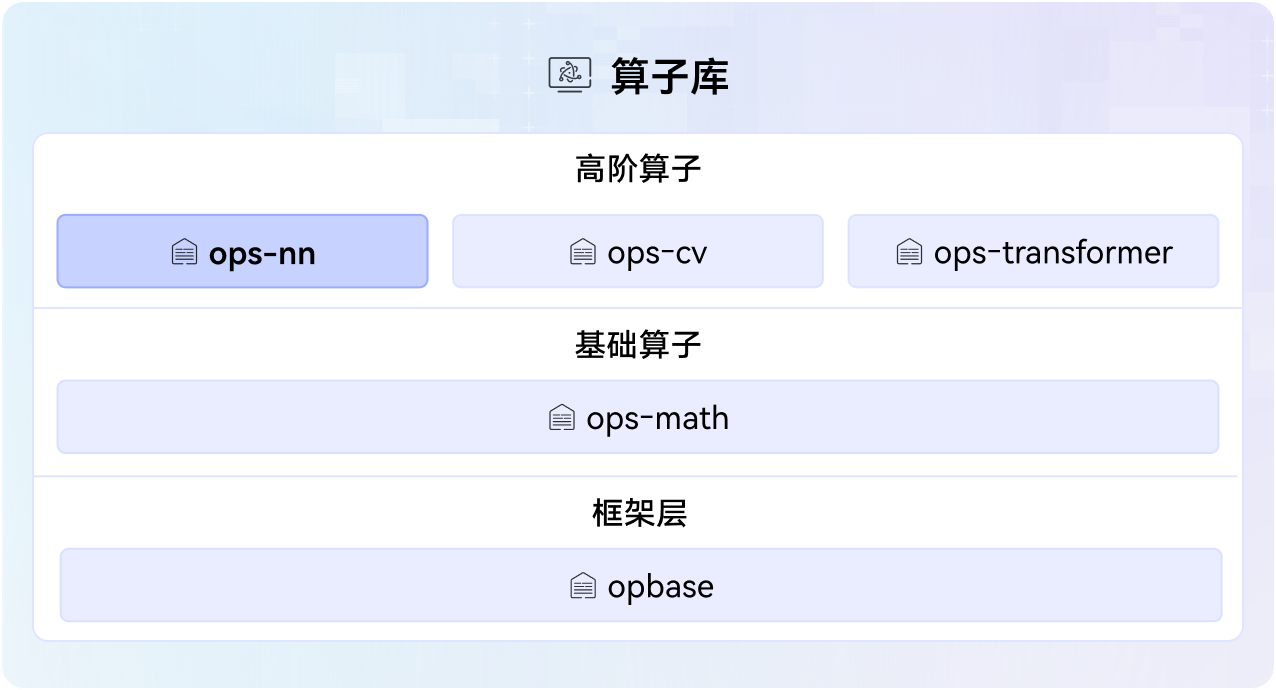
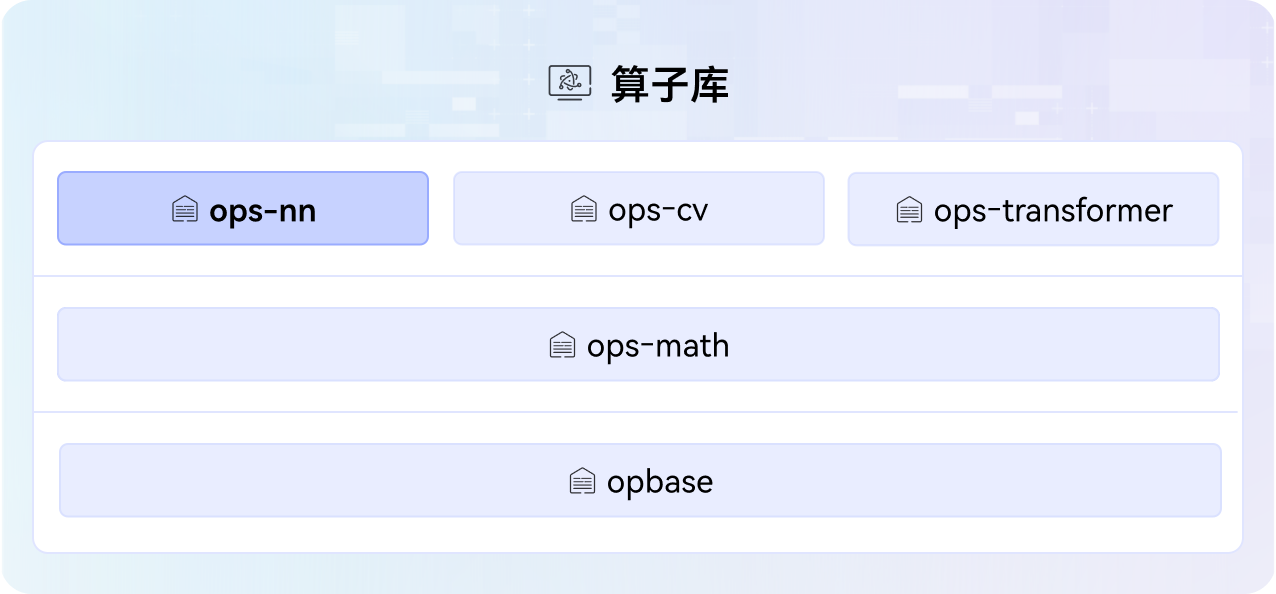
update doc
# message auto-generated for no-merge-commit merge:
!96 merge master into master

update doc

Created-by: liuyufan0725
Commit-by: liuyufan0725
Merged-by: turing_project1
Description: ## 描述
<!--在这里详细描述你的改动，包括改动的原因和所采取的方法。-->
公共文档更新。
## 关联的Issue
<!-- 如果这个PR是为了解决特定的Issue，请在这里提供Issue链接。例如：关联Issue #123-->
<!-- 如果这个PR是为了解决特定的问题单，请在这里描述问题单单号。-->

## 测试
<!--描述进行了哪些测试来验证你的改动。包括但不限于二级冒烟、算子泛化等。-->

## 文档更新
<!--如果这个PR包含文档的更新，请在这里指出。例如：更新了README.md文件。-->

## 类型标签
<!--  [x] 表示选中 -->
- [ ] Bug修复
- [ ] 新特性
- [ ] 性能优化
- [x] 文档更新
- [ ] 其他，请描述：

See merge request: cann/ops-nn!96

diff --git a/docs/context/op_list.md b/docs/context/op_list.md
@@ -1,7 +1,7 @@
 # 算子列表
 
 > 说明：
-> - **算子目录**：目录名为算子名小写下划线形式，每个目录承载该算子所有交付件，包括代码实现、examples、文档等，目录介绍参见[目录结构](../../README.md#目录结构)。
+> - **算子目录**：目录名为算子名小写下划线形式，每个目录承载该算子所有交付件，包括代码实现、examples、文档等，目录介绍参见[项目目录](dir_structure.md)。
 > - **算子执行位置**：大部分算子运行在AI Core上，少部分算子运行在AI CPU上。默认情况下，项目中提到的算子一般指AI Core算子。
 > - 关于AI Core和AI CPU详细介绍请参见[《Ascend C算子开发》](https://hiascend.com/document/redirect/CannCommunityOpdevAscendC)中“概念原理和术语 > 硬件架构与数据处理原理”。
 
@@ -166,100 +166,100 @@
 |	vfusion	|	[multi_scale_deformable_attention_grad](../../vfusion/multi_scale_deformable_attention_grad/README.md)	|		AI Core	|	multi_scale_deformable_attn_function的反向传播。	|
 |	vfusion	|	[scaled_masked_softmax_grad_v2](../../vfusion/scaled_masked_softmax_grad_v2/README.md)	|		AI Core	|	scaled_masked_softmax_v2的反向传播，并对结果进行缩放以及掩码。	|
 |	vfusion	|	[scaled_masked_softmax_v2](../../vfusion/scaled_masked_softmax_v2/README.md)	|		AI Core	|	将输入的数据x先进行scale缩放和mask，然后执行softmax的输出。	|
-|	activation	|	[celu_v2](../../activation/celu_v2/README.md)	|		AI Core	|	该算子暂无AscendC代码实现，欢迎各位开发者补充贡献，贡献方式可以参考[贡献指南](../../CONTRIBUTING.md)。	|
-|	activation	|	[elu](../../activation/elu/README.md)	|		AI Core	|	该算子暂无AscendC代码实现，欢迎各位开发者补充贡献，贡献方式可以参考[贡献指南](../../CONTRIBUTING.md)。	|
-|	activation	|	[elu_grad_v2](../../activation/elu_grad_v2/README.md)	|		AI Core	|	该算子暂无AscendC代码实现，欢迎各位开发者补充贡献，贡献方式可以参考[贡献指南](../../CONTRIBUTING.md)。	|
-|	activation	|	[erfinv](../../activation/erfinv/README.md)	|		AI Core	|	该算子暂无AscendC代码实现，欢迎各位开发者补充贡献，贡献方式可以参考[贡献指南](../../CONTRIBUTING.md)。	|
-|	activation	|	[fast_gelu](../../activation/fast_gelu/README.md)	|		AI Core	|	该算子暂无AscendC代码实现，欢迎各位开发者补充贡献，贡献方式可以参考[贡献指南](../../CONTRIBUTING.md)。	|
-|	activation	|	[fast_gelu_grad](../../activation/fast_gelu_grad/README.md)	|		AI Core	|	该算子暂无AscendC代码实现，欢迎各位开发者补充贡献，贡献方式可以参考[贡献指南](../../CONTRIBUTING.md)。	|
-|	activation	|	[gelu](../../activation/gelu/README.md)	|		AI Core	|	该算子暂无AscendC代码实现，欢迎各位开发者补充贡献，贡献方式可以参考[贡献指南](../../CONTRIBUTING.md)。	|
-|	activation	|	[gelu_grad](../../activation/gelu_grad/README.md)	|		AI Core	|	该算子暂无AscendC代码实现，欢迎各位开发者补充贡献，贡献方式可以参考[贡献指南](../../CONTRIBUTING.md)。	|
-|	activation	|	[gelu_grad_v2](../../activation/gelu_grad_v2/README.md)	|		AI Core	|	该算子暂无AscendC代码实现，欢迎各位开发者补充贡献，贡献方式可以参考[贡献指南](../../CONTRIBUTING.md)。	|
-|	activation	|	[gelu_v2](../../activation/gelu_v2/README.md)	|		AI Core	|	该算子暂无AscendC代码实现，欢迎各位开发者补充贡献，贡献方式可以参考[贡献指南](../../CONTRIBUTING.md)。	|
-|	activation	|	[hardtanh_grad](../../activation/hardtanh_grad/README.md)	|		AI Core	|	该算子暂无AscendC代码实现，欢迎各位开发者补充贡献，贡献方式可以参考[贡献指南](../../CONTRIBUTING.md)。	|
-|	activation	|	[hard_shrink](../../activation/hard_shrink/README.md)	|		AI Core	|	该算子暂无AscendC代码实现，欢迎各位开发者补充贡献，贡献方式可以参考[贡献指南](../../CONTRIBUTING.md)。	|
-|	activation	|	[hard_shrink_grad](../../activation/hard_shrink_grad/README.md)	|		AI Core	|	该算子暂无AscendC代码实现，欢迎各位开发者补充贡献，贡献方式可以参考[贡献指南](../../CONTRIBUTING.md)。	|
-|	activation	|	[hard_sigmoid](../../activation/hard_sigmoid/README.md)	|		AI Core	|	该算子暂无AscendC代码实现，欢迎各位开发者补充贡献，贡献方式可以参考[贡献指南](../../CONTRIBUTING.md)。	|
-|	activation	|	[hard_sigmoid_grad](../../activation/hard_sigmoid_grad/README.md)	|		AI Core	|	该算子暂无AscendC代码实现，欢迎各位开发者补充贡献，贡献方式可以参考[贡献指南](../../CONTRIBUTING.md)。	|
-|	activation	|	[hard_swish](../../activation/hard_swish/README.md)	|		AI Core	|	该算子暂无AscendC代码实现，欢迎各位开发者补充贡献，贡献方式可以参考[贡献指南](../../CONTRIBUTING.md)。	|
-|	activation	|	[hard_swish_grad](../../activation/hard_swish_grad/README.md)	|		AI Core	|	该算子暂无AscendC代码实现，欢迎各位开发者补充贡献，贡献方式可以参考[贡献指南](../../CONTRIBUTING.md)。	|
-|	activation	|	[leaky_relu](../../activation/leaky_relu/README.md)	|		AI Core	|	该算子暂无AscendC代码实现，欢迎各位开发者补充贡献，贡献方式可以参考[贡献指南](../../CONTRIBUTING.md)。	|
-|	activation	|	[leaky_relu_grad](../../activation/leaky_relu_grad/README.md)	|		AI Core	|	该算子暂无AscendC代码实现，欢迎各位开发者补充贡献，贡献方式可以参考[贡献指南](../../CONTRIBUTING.md)。	|
-|	activation	|	[logsigmoid](../../activation/logsigmoid/README.md)	|		AI Core	|	该算子暂无AscendC代码实现，欢迎各位开发者补充贡献，贡献方式可以参考[贡献指南](../../CONTRIBUTING.md)。	|
-|	activation	|	[logsigmoid_grad](../../activation/logsigmoid_grad/README.md)	|		AI Core	|	该算子暂无AscendC代码实现，欢迎各位开发者补充贡献，贡献方式可以参考[贡献指南](../../CONTRIBUTING.md)。	|
-|	activation	|	[logsoftmax_grad](../../activation/logsoftmax_grad/README.md)	|		AI Core	|	该算子暂无AscendC代码实现，欢迎各位开发者补充贡献，贡献方式可以参考[贡献指南](../../CONTRIBUTING.md)。	|
-|	activation	|	[logsoftmax_v2](../../activation/logsoftmax_v2/README.md)	|		AI Core	|	该算子暂无AscendC代码实现，欢迎各位开发者补充贡献，贡献方式可以参考[贡献指南](../../CONTRIBUTING.md)。	|
-|	activation	|	[mish](../../activation/mish/README.md)	|		AI Core	|	该算子暂无AscendC代码实现，欢迎各位开发者补充贡献，贡献方式可以参考[贡献指南](../../CONTRIBUTING.md)。	|
-|	activation	|	[mish_grad](../../activation/mish_grad/README.md)	|		AI Core	|	该算子暂无AscendC代码实现，欢迎各位开发者补充贡献，贡献方式可以参考[贡献指南](../../CONTRIBUTING.md)。	|
-|	activation	|	[prelu](../../activation/prelu/README.md)	|		AI Core	|	该算子暂无AscendC代码实现，欢迎各位开发者补充贡献，贡献方式可以参考[贡献指南](../../CONTRIBUTING.md)。	|
-|	activation	|	[prelu_grad_reduce](../../activation/prelu_grad_reduce/README.md)	|		AI Core	|	该算子暂无AscendC代码实现，欢迎各位开发者补充贡献，贡献方式可以参考[贡献指南](../../CONTRIBUTING.md)。	|
-|	activation	|	[prelu_grad_update](../../activation/prelu_grad_update/README.md)	|		AI Core	|	该算子暂无AscendC代码实现，欢迎各位开发者补充贡献，贡献方式可以参考[贡献指南](../../CONTRIBUTING.md)。	|
-|	activation	|	[relu](../../activation/relu/README.md)	|		AI Core	|	该算子暂无AscendC代码实现，欢迎各位开发者补充贡献，贡献方式可以参考[贡献指南](../../CONTRIBUTING.md)。	|
-|	activation	|	[relu_grad](../../activation/relu_grad/README.md)	|		AI Core	|	该算子暂无AscendC代码实现，欢迎各位开发者补充贡献，贡献方式可以参考[贡献指南](../../CONTRIBUTING.md)。	|
-|	activation	|	[selu](../../activation/selu/README.md)	|		AI Core	|	该算子暂无AscendC代码实现，欢迎各位开发者补充贡献，贡献方式可以参考[贡献指南](../../CONTRIBUTING.md)。	|
-|	activation	|	[selu_grad](../../activation/selu_grad/README.md)	|		AI Core	|	该算子暂无AscendC代码实现，欢迎各位开发者补充贡献，贡献方式可以参考[贡献指南](../../CONTRIBUTING.md)。	|
-|	activation	|	[shrink](../../activation/shrink/README.md)	|		AI Core	|	该算子暂无AscendC代码实现，欢迎各位开发者补充贡献，贡献方式可以参考[贡献指南](../../CONTRIBUTING.md)。	|
-|	activation	|	[sigmoid](../../activation/sigmoid/README.md)	|		AI Core	|	该算子暂无AscendC代码实现，欢迎各位开发者补充贡献，贡献方式可以参考[贡献指南](../../CONTRIBUTING.md)。	|
-|	activation	|	[sigmoid_grad](../../activation/sigmoid_grad/README.md)	|		AI Core	|	该算子暂无AscendC代码实现，欢迎各位开发者补充贡献，贡献方式可以参考[贡献指南](../../CONTRIBUTING.md)。	|
-|	activation	|	[silu_grad](../../activation/silu_grad/README.md)	|		AI Core	|	该算子暂无AscendC代码实现，欢迎各位开发者补充贡献，贡献方式可以参考[贡献指南](../../CONTRIBUTING.md)。	|
-|	activation	|	[softmax_grad](../../activation/softmax_grad/README.md)	|		AI Core	|	该算子暂无AscendC代码实现，欢迎各位开发者补充贡献，贡献方式可以参考[贡献指南](../../CONTRIBUTING.md)。	|
-|	activation	|	[softmax_v2](../../activation/softmax_v2/README.md)	|		AI Core	|	该算子暂无AscendC代码实现，欢迎各位开发者补充贡献，贡献方式可以参考[贡献指南](../../CONTRIBUTING.md)。	|
-|	activation	|	[softplus_v2](../../activation/softplus_v2/README.md)	|		AI Core	|	该算子暂无AscendC代码实现，欢迎各位开发者补充贡献，贡献方式可以参考[贡献指南](../../CONTRIBUTING.md)。	|
-|	activation	|	[softplus_v2_grad](../../activation/softplus_v2_grad/README.md)	|		AI Core	|	该算子暂无AscendC代码实现，欢迎各位开发者补充贡献，贡献方式可以参考[贡献指南](../../CONTRIBUTING.md)。	|
-|	activation	|	[softshrink](../../activation/softshrink/README.md)	|		AI Core	|	该算子暂无AscendC代码实现，欢迎各位开发者补充贡献，贡献方式可以参考[贡献指南](../../CONTRIBUTING.md)。	|
-|	activation	|	[softshrink_grad](../../activation/softshrink_grad/README.md)	|		AI Core	|	该算子暂无AscendC代码实现，欢迎各位开发者补充贡献，贡献方式可以参考[贡献指南](../../CONTRIBUTING.md)。	|
-|	activation	|	[swish](../../activation/swish/README.md)	|		AI Core	|	该算子暂无AscendC代码实现，欢迎各位开发者补充贡献，贡献方式可以参考[贡献指南](../../CONTRIBUTING.md)。	|
-|	activation	|	[swish_grad](../../activation/swish_grad/README.md)	|		AI Core	|	该算子暂无AscendC代码实现，欢迎各位开发者补充贡献，贡献方式可以参考[贡献指南](../../CONTRIBUTING.md)。	|
-|	activation	|	[threshold](../../activation/threshold/README.md)	|		AI Core	|	该算子暂无AscendC代码实现，欢迎各位开发者补充贡献，贡献方式可以参考[贡献指南](../../CONTRIBUTING.md)。	|
-|	activation	|	[threshold_grad_v2_d](../../activation/threshold_grad_v2_d/README.md)	|		AI Core	|	该算子暂无AscendC代码实现，欢迎各位开发者补充贡献，贡献方式可以参考[贡献指南](../../CONTRIBUTING.md)。	|
-|	control	|	[identity](../../control/identity/README.md)	|		AI Core	|	该算子暂无AscendC代码实现，欢迎各位开发者补充贡献，贡献方式可以参考[贡献指南](../../CONTRIBUTING.md)。	|
-|	control	|	[identity_n](../../control/identity_n/README.md)	|		AI Core	|	该算子暂无AscendC代码实现，欢迎各位开发者补充贡献，贡献方式可以参考[贡献指南](../../CONTRIBUTING.md)。	|
-|	control	|	[rank](../../control/rank/README.md)	|		AI Core	|	该算子暂无AscendC代码实现，欢迎各位开发者补充贡献，贡献方式可以参考[贡献指南](../../CONTRIBUTING.md)。	|
-|	control	|	[shape](../../control/shape/README.md)	|		AI Core	|	该算子暂无AscendC代码实现，欢迎各位开发者补充贡献，贡献方式可以参考[贡献指南](../../CONTRIBUTING.md)。	|
-|	control	|	[shape_n](../../control/shape_n/README.md)	|		AI Core	|	该算子暂无AscendC代码实现，欢迎各位开发者补充贡献，贡献方式可以参考[贡献指南](../../CONTRIBUTING.md)。	|
-|	index	|	[gather_elements](../../index/gather_elements/README.md)	|		AI Core	|	该算子暂无AscendC代码实现，欢迎各位开发者补充贡献，贡献方式可以参考[贡献指南](../../CONTRIBUTING.md)。	|
-|	index	|	[gather_nd](../../index/gather_nd/README.md)	|		AI Core	|	该算子暂无AscendC代码实现，欢迎各位开发者补充贡献，贡献方式可以参考[贡献指南](../../CONTRIBUTING.md)。	|
-|	index	|	[gather_v2](../../index/gather_v2/README.md)	|		AI Core	|	该算子暂无AscendC代码实现，欢迎各位开发者补充贡献，贡献方式可以参考[贡献指南](../../CONTRIBUTING.md)。	|
-|	index	|	[index](../../index/index/README.md)	|		AI Core	|	该算子暂无AscendC代码实现，欢迎各位开发者补充贡献，贡献方式可以参考[贡献指南](../../CONTRIBUTING.md)。	|
-|	index	|	[index_fill_d](../../index/index_fill_d/README.md)	|		AI Core	|	该算子暂无AscendC代码实现，欢迎各位开发者补充贡献，贡献方式可以参考[贡献指南](../../CONTRIBUTING.md)。	|
-|	index	|	[index_put_v2](../../index/index_put_v2/README.md)	|		AI Core	|	该算子暂无AscendC代码实现，欢迎各位开发者补充贡献，贡献方式可以参考[贡献指南](../../CONTRIBUTING.md)。	|
-|	index	|	[matrix_inverse](../../index/matrix_inverse/README.md)	|		AI Core	|	该算子暂无AscendC代码实现，欢迎各位开发者补充贡献，贡献方式可以参考[贡献指南](../../CONTRIBUTING.md)。	|
-|	index	|	[non_zero](../../index/non_zero/README.md)	|		AI Core	|	该算子暂无AscendC代码实现，欢迎各位开发者补充贡献，贡献方式可以参考[贡献指南](../../CONTRIBUTING.md)。	|
-|	index	|	[repeat_interleave](../../index/repeat_interleave/README.md)	|		AI Core	|	该算子暂无AscendC代码实现，欢迎各位开发者补充贡献，贡献方式可以参考[贡献指南](../../CONTRIBUTING.md)。	|
-|	index	|	[reverse_v2](../../index/reverse_v2/README.md)	|		AI Core	|	该算子暂无AscendC代码实现，欢迎各位开发者补充贡献，贡献方式可以参考[贡献指南](../../CONTRIBUTING.md)。	|
-|	index	|	[scatter_elements](../../index/scatter_elements/README.md)	|		AI Core	|	该算子暂无AscendC代码实现，欢迎各位开发者补充贡献，贡献方式可以参考[贡献指南](../../CONTRIBUTING.md)。	|
-|	index	|	[scatter_nd_update](../../index/scatter_nd_update/README.md)	|		AI Core	|	该算子暂无AscendC代码实现，欢迎各位开发者补充贡献，贡献方式可以参考[贡献指南](../../CONTRIBUTING.md)。	|
-|	index	|	[scatter_update](../../index/scatter_update/README.md)	|		AI Core	|	该算子暂无AscendC代码实现，欢迎各位开发者补充贡献，贡献方式可以参考[贡献指南](../../CONTRIBUTING.md)。	|
-|	index	|	[unique_consecutive](../../index/unique_consecutive/README.md)	|		AI Core	|	该算子暂无AscendC代码实现，欢迎各位开发者补充贡献，贡献方式可以参考[贡献指南](../../CONTRIBUTING.md)。	|
-|	index	|	[unique_with_counts_ext2](../../index/unique_with_counts_ext2/README.md)	|		AI Core	|	该算子暂无AscendC代码实现，欢迎各位开发者补充贡献，贡献方式可以参考[贡献指南](../../CONTRIBUTING.md)。	|
-|	loss	|	[binary_cross_entropy](../../loss/binary_cross_entropy/README.md)	|		AI Core	|	该算子暂无AscendC代码实现，欢迎各位开发者补充贡献，贡献方式可以参考[贡献指南](../../CONTRIBUTING.md)。	|
-|	loss	|	[binary_cross_entropy_grad](../../loss/binary_cross_entropy_grad/README.md)	|		AI Core	|	该算子暂无AscendC代码实现，欢迎各位开发者补充贡献，贡献方式可以参考[贡献指南](../../CONTRIBUTING.md)。	|
-|	loss	|	[ctc_loss_v2](../../loss/ctc_loss_v2/README.md)	|		AI Core	|	该算子暂无AscendC代码实现，欢迎各位开发者补充贡献，贡献方式可以参考[贡献指南](../../CONTRIBUTING.md)。	|
-|	loss	|	[ctc_loss_v2_grad](../../loss/ctc_loss_v2_grad/README.md)	|		AI Core	|	该算子暂无AscendC代码实现，欢迎各位开发者补充贡献，贡献方式可以参考[贡献指南](../../CONTRIBUTING.md)。	|
-|	loss	|	[kl_div_loss_grad](../../loss/kl_div_loss_grad/README.md)	|		AI Core	|	该算子暂无AscendC代码实现，欢迎各位开发者补充贡献，贡献方式可以参考[贡献指南](../../CONTRIBUTING.md)。	|
-|	loss	|	[l1_loss_grad](../../loss/l1_loss_grad/README.md)	|		AI Core	|	该算子暂无AscendC代码实现，欢迎各位开发者补充贡献，贡献方式可以参考[贡献指南](../../CONTRIBUTING.md)。	|
-|	loss	|	[lp_loss](../../loss/lp_loss/README.md)	|		AI Core	|	该算子暂无AscendC代码实现，欢迎各位开发者补充贡献，贡献方式可以参考[贡献指南](../../CONTRIBUTING.md)。	|
-|	loss	|	[mse_loss](../../loss/mse_loss/README.md)	|		AI Core	|	该算子暂无AscendC代码实现，欢迎各位开发者补充贡献，贡献方式可以参考[贡献指南](../../CONTRIBUTING.md)。	|
-|	loss	|	[multilabel_margin_loss](../../loss/multilabel_margin_loss/README.md)	|		AI Core	|	该算子暂无AscendC代码实现，欢迎各位开发者补充贡献，贡献方式可以参考[贡献指南](../../CONTRIBUTING.md)。	|
-|	loss	|	[nll_loss](../../loss/nll_loss/README.md)	|		AI Core	|	该算子暂无AscendC代码实现，欢迎各位开发者补充贡献，贡献方式可以参考[贡献指南](../../CONTRIBUTING.md)。	|
-|	loss	|	[nll_loss_grad](../../loss/nll_loss_grad/README.md)	|		AI Core	|	该算子暂无AscendC代码实现，欢迎各位开发者补充贡献，贡献方式可以参考[贡献指南](../../CONTRIBUTING.md)。	|
-|	loss	|	[sigmoid_cross_entropy_with_logits_grad_v2](../../loss/sigmoid_cross_entropy_with_logits_grad_v2/README.md)	|		AI Core	|	该算子暂无AscendC代码实现，欢迎各位开发者补充贡献，贡献方式可以参考[贡献指南](../../CONTRIBUTING.md)。	|
-|	loss	|	[sigmoid_cross_entropy_with_logits_v2](../../loss/sigmoid_cross_entropy_with_logits_v2/README.md)	|		AI Core	|	该算子暂无AscendC代码实现，欢迎各位开发者补充贡献，贡献方式可以参考[贡献指南](../../CONTRIBUTING.md)。	|
-|	loss	|	[smooth_l1_loss_grad_v2](../../loss/smooth_l1_loss_grad_v2/README.md)	|		AI Core	|	该算子暂无AscendC代码实现，欢迎各位开发者补充贡献，贡献方式可以参考[贡献指南](../../CONTRIBUTING.md)。	|
-|	loss	|	[smooth_l1_loss_v2](../../loss/smooth_l1_loss_v2/README.md)	|		AI Core	|	该算子暂无AscendC代码实现，欢迎各位开发者补充贡献，贡献方式可以参考[贡献指南](../../CONTRIBUTING.md)。	|
-|	loss	|	[soft_margin_loss](../../loss/soft_margin_loss/README.md)	|		AI Core	|	该算子暂无AscendC代码实现，欢迎各位开发者补充贡献，贡献方式可以参考[贡献指南](../../CONTRIBUTING.md)。	|
-|	loss	|	[soft_margin_loss_grad](../../loss/soft_margin_loss_grad/README.md)	|		AI Core	|	该算子暂无AscendC代码实现，欢迎各位开发者补充贡献，贡献方式可以参考[贡献指南](../../CONTRIBUTING.md)。	|
-|	matmul	|	[addmv](../../matmul/addmv/README.md)	|		AI Core	|	该算子暂无AscendC代码实现，欢迎各位开发者补充贡献，贡献方式可以参考[贡献指南](../../CONTRIBUTING.md)。	|
-|	matmul	|	[gemm](../../matmul/gemm/README.md)	|		AI Core	|	该算子暂无AscendC代码实现，欢迎各位开发者补充贡献，贡献方式可以参考[贡献指南](../../CONTRIBUTING.md)。	|
-|	matmul	|	[mv](../../matmul/mv/README.md)	|		AI Core	|	该算子暂无AscendC代码实现，欢迎各位开发者补充贡献，贡献方式可以参考[贡献指南](../../CONTRIBUTING.md)。	|
-|	norm	|	[batch_norm_elemt](../../norm/batch_norm_elemt/README.md)	|		AI Core	|	该算子暂无AscendC代码实现，欢迎各位开发者补充贡献，贡献方式可以参考[贡献指南](../../CONTRIBUTING.md)。	|
-|	norm	|	[batch_norm_grad_v3](../../norm/batch_norm_grad_v3/README.md)	|		AI Core	|	该算子暂无AscendC代码实现，欢迎各位开发者补充贡献，贡献方式可以参考[贡献指南](../../CONTRIBUTING.md)。	|
-|	norm	|	[group_norm](../../norm/group_norm/README.md)	|		AI Core	|	该算子暂无AscendC代码实现，欢迎各位开发者补充贡献，贡献方式可以参考[贡献指南](../../CONTRIBUTING.md)。	|
-|	norm	|	[instance_norm_v3](../../norm/instance_norm_v3/README.md)	|		AI Core	|	该算子暂无AscendC代码实现，欢迎各位开发者补充贡献，贡献方式可以参考[贡献指南](../../CONTRIBUTING.md)。	|
-|	norm	|	[lp_norm_v2](../../norm/lp_norm_v2/README.md)	|		AI Core	|	该算子暂无AscendC代码实现，欢迎各位开发者补充贡献，贡献方式可以参考[贡献指南](../../CONTRIBUTING.md)。	|
-|	norm	|	[renorm](../../norm/renorm/README.md)	|		AI Core	|	该算子暂无AscendC代码实现，欢迎各位开发者补充贡献，贡献方式可以参考[贡献指南](../../CONTRIBUTING.md)。	|
-|	norm	|	[sync_batch_norm_backward_elemt](../../norm/sync_batch_norm_backward_elemt/README.md)	|		AI Core	|	该算子暂无AscendC代码实现，欢迎各位开发者补充贡献，贡献方式可以参考[贡献指南](../../CONTRIBUTING.md)。	|
-|	norm	|	[sync_batch_norm_backward_reduce](../../norm/sync_batch_norm_backward_reduce/README.md)	|		AI Core	|	该算子暂无AscendC代码实现，欢迎各位开发者补充贡献，贡献方式可以参考[贡献指南](../../CONTRIBUTING.md)。	|
-|	norm	|	[sync_batch_norm_gather_stats_with_counts](../../norm/sync_batch_norm_gather_stats_with_counts/README.md)	|		AI Core	|	该算子暂无AscendC代码实现，欢迎各位开发者补充贡献，贡献方式可以参考[贡献指南](../../CONTRIBUTING.md)。	|
-|	quant	|	[ascend_anti_quant_v2](../../quant/ascend_anti_quant_v2/README.md)	|		AI Core	|	该算子暂无AscendC代码实现，欢迎各位开发者补充贡献，贡献方式可以参考[贡献指南](../../CONTRIBUTING.md)。	|
-|	quant	|	[quantize](../../quant/quantize/README.md)	|		AI Core	|	该算子暂无AscendC代码实现，欢迎各位开发者补充贡献，贡献方式可以参考[贡献指南](../../CONTRIBUTING.md)。	|
+|	activation	|	[celu_v2](../../activation/celu_v2/README.md)	|		AI Core	|	该算子暂无Ascend C代码实现，欢迎开发者补充贡献，贡献方式参考[贡献指南](../../CONTRIBUTING.md)。	|
+|	activation	|	[elu](../../activation/elu/README.md)	|		AI Core	|	该算子暂无Ascend C代码实现，欢迎开发者补充贡献，贡献方式参考[贡献指南](../../CONTRIBUTING.md)。	|
+|	activation	|	[elu_grad_v2](../../activation/elu_grad_v2/README.md)	|		AI Core	|	该算子暂无Ascend C代码实现，欢迎开发者补充贡献，贡献方式参考[贡献指南](../../CONTRIBUTING.md)。	|
+|	activation	|	[erfinv](../../activation/erfinv/README.md)	|		AI Core	|	该算子暂无Ascend C代码实现，欢迎开发者补充贡献，贡献方式参考[贡献指南](../../CONTRIBUTING.md)。	|
+|	activation	|	[fast_gelu](../../activation/fast_gelu/README.md)	|		AI Core	|	该算子暂无Ascend C代码实现，欢迎开发者补充贡献，贡献方式参考[贡献指南](../../CONTRIBUTING.md)。	|
+|	activation	|	[fast_gelu_grad](../../activation/fast_gelu_grad/README.md)	|		AI Core	|	该算子暂无Ascend C代码实现，欢迎开发者补充贡献，贡献方式参考[贡献指南](../../CONTRIBUTING.md)。	|
+|	activation	|	[gelu](../../activation/gelu/README.md)	|		AI Core	|	该算子暂无Ascend C代码实现，欢迎开发者补充贡献，贡献方式参考[贡献指南](../../CONTRIBUTING.md)。	|
+|	activation	|	[gelu_grad](../../activation/gelu_grad/README.md)	|		AI Core	|	该算子暂无Ascend C代码实现，欢迎开发者补充贡献，贡献方式参考[贡献指南](../../CONTRIBUTING.md)。	|
+|	activation	|	[gelu_grad_v2](../../activation/gelu_grad_v2/README.md)	|		AI Core	|	该算子暂无Ascend C代码实现，欢迎开发者补充贡献，贡献方式参考[贡献指南](../../CONTRIBUTING.md)。	|
+|	activation	|	[gelu_v2](../../activation/gelu_v2/README.md)	|		AI Core	|	该算子暂无Ascend C代码实现，欢迎开发者补充贡献，贡献方式参考[贡献指南](../../CONTRIBUTING.md)。	|
+|	activation	|	[hardtanh_grad](../../activation/hardtanh_grad/README.md)	|		AI Core	|	该算子暂无Ascend C代码实现，欢迎开发者补充贡献，贡献方式参考[贡献指南](../../CONTRIBUTING.md)。	|
+|	activation	|	[hard_shrink](../../activation/hard_shrink/README.md)	|		AI Core	|	该算子暂无Ascend C代码实现，欢迎开发者补充贡献，贡献方式参考[贡献指南](../../CONTRIBUTING.md)。	|
+|	activation	|	[hard_shrink_grad](../../activation/hard_shrink_grad/README.md)	|		AI Core	|	该算子暂无Ascend C代码实现，欢迎开发者补充贡献，贡献方式参考[贡献指南](../../CONTRIBUTING.md)。	|
+|	activation	|	[hard_sigmoid](../../activation/hard_sigmoid/README.md)	|		AI Core	|	该算子暂无Ascend C代码实现，欢迎开发者补充贡献，贡献方式参考[贡献指南](../../CONTRIBUTING.md)。	|
+|	activation	|	[hard_sigmoid_grad](../../activation/hard_sigmoid_grad/README.md)	|		AI Core	|	该算子暂无Ascend C代码实现，欢迎开发者补充贡献，贡献方式参考[贡献指南](../../CONTRIBUTING.md)。	|
+|	activation	|	[hard_swish](../../activation/hard_swish/README.md)	|		AI Core	|	该算子暂无Ascend C代码实现，欢迎开发者补充贡献，贡献方式参考[贡献指南](../../CONTRIBUTING.md)。	|
+|	activation	|	[hard_swish_grad](../../activation/hard_swish_grad/README.md)	|		AI Core	|	该算子暂无Ascend C代码实现，欢迎开发者补充贡献，贡献方式参考[贡献指南](../../CONTRIBUTING.md)。	|
+|	activation	|	[leaky_relu](../../activation/leaky_relu/README.md)	|		AI Core	|	该算子暂无Ascend C代码实现，欢迎开发者补充贡献，贡献方式参考[贡献指南](../../CONTRIBUTING.md)。	|
+|	activation	|	[leaky_relu_grad](../../activation/leaky_relu_grad/README.md)	|		AI Core	|	该算子暂无Ascend C代码实现，欢迎开发者补充贡献，贡献方式参考[贡献指南](../../CONTRIBUTING.md)。	|
+|	activation	|	[logsigmoid](../../activation/logsigmoid/README.md)	|		AI Core	|	该算子暂无Ascend C代码实现，欢迎开发者补充贡献，贡献方式参考[贡献指南](../../CONTRIBUTING.md)。	|
+|	activation	|	[logsigmoid_grad](../../activation/logsigmoid_grad/README.md)	|		AI Core	|	该算子暂无Ascend C代码实现，欢迎开发者补充贡献，贡献方式参考[贡献指南](../../CONTRIBUTING.md)。	|
+|	activation	|	[logsoftmax_grad](../../activation/logsoftmax_grad/README.md)	|		AI Core	|	该算子暂无Ascend C代码实现，欢迎开发者补充贡献，贡献方式参考[贡献指南](../../CONTRIBUTING.md)。	|
+|	activation	|	[logsoftmax_v2](../../activation/logsoftmax_v2/README.md)	|		AI Core	|	该算子暂无Ascend C代码实现，欢迎开发者补充贡献，贡献方式参考[贡献指南](../../CONTRIBUTING.md)。	|
+|	activation	|	[mish](../../activation/mish/README.md)	|		AI Core	|	该算子暂无Ascend C代码实现，欢迎开发者补充贡献，贡献方式参考[贡献指南](../../CONTRIBUTING.md)。	|
+|	activation	|	[mish_grad](../../activation/mish_grad/README.md)	|		AI Core	|	该算子暂无Ascend C代码实现，欢迎开发者补充贡献，贡献方式参考[贡献指南](../../CONTRIBUTING.md)。	|
+|	activation	|	[prelu](../../activation/prelu/README.md)	|		AI Core	|	该算子暂无Ascend C代码实现，欢迎开发者补充贡献，贡献方式参考[贡献指南](../../CONTRIBUTING.md)。	|
+|	activation	|	[prelu_grad_reduce](../../activation/prelu_grad_reduce/README.md)	|		AI Core	|	该算子暂无Ascend C代码实现，欢迎开发者补充贡献，贡献方式参考[贡献指南](../../CONTRIBUTING.md)。	|
+|	activation	|	[prelu_grad_update](../../activation/prelu_grad_update/README.md)	|		AI Core	|	该算子暂无Ascend C代码实现，欢迎开发者补充贡献，贡献方式参考[贡献指南](../../CONTRIBUTING.md)。	|
+|	activation	|	[relu](../../activation/relu/README.md)	|		AI Core	|	该算子暂无Ascend C代码实现，欢迎开发者补充贡献，贡献方式参考[贡献指南](../../CONTRIBUTING.md)。	|
+|	activation	|	[relu_grad](../../activation/relu_grad/README.md)	|		AI Core	|	该算子暂无Ascend C代码实现，欢迎开发者补充贡献，贡献方式参考[贡献指南](../../CONTRIBUTING.md)。	|
+|	activation	|	[selu](../../activation/selu/README.md)	|		AI Core	|	该算子暂无Ascend C代码实现，欢迎开发者补充贡献，贡献方式参考[贡献指南](../../CONTRIBUTING.md)。	|
+|	activation	|	[selu_grad](../../activation/selu_grad/README.md)	|		AI Core	|	该算子暂无Ascend C代码实现，欢迎开发者补充贡献，贡献方式参考[贡献指南](../../CONTRIBUTING.md)。	|
+|	activation	|	[shrink](../../activation/shrink/README.md)	|		AI Core	|	该算子暂无Ascend C代码实现，欢迎开发者补充贡献，贡献方式参考[贡献指南](../../CONTRIBUTING.md)。	|
+|	activation	|	[sigmoid](../../activation/sigmoid/README.md)	|		AI Core	|	该算子暂无Ascend C代码实现，欢迎开发者补充贡献，贡献方式参考[贡献指南](../../CONTRIBUTING.md)。	|
+|	activation	|	[sigmoid_grad](../../activation/sigmoid_grad/README.md)	|		AI Core	|	该算子暂无Ascend C代码实现，欢迎开发者补充贡献，贡献方式参考[贡献指南](../../CONTRIBUTING.md)。	|
+|	activation	|	[silu_grad](../../activation/silu_grad/README.md)	|		AI Core	|	该算子暂无Ascend C代码实现，欢迎开发者补充贡献，贡献方式参考[贡献指南](../../CONTRIBUTING.md)。	|
+|	activation	|	[softmax_grad](../../activation/softmax_grad/README.md)	|		AI Core	|	该算子暂无Ascend C代码实现，欢迎开发者补充贡献，贡献方式参考[贡献指南](../../CONTRIBUTING.md)。	|
+|	activation	|	[softmax_v2](../../activation/softmax_v2/README.md)	|		AI Core	|	该算子暂无Ascend C代码实现，欢迎开发者补充贡献，贡献方式参考[贡献指南](../../CONTRIBUTING.md)。	|
+|	activation	|	[softplus_v2](../../activation/softplus_v2/README.md)	|		AI Core	|	该算子暂无Ascend C代码实现，欢迎开发者补充贡献，贡献方式参考[贡献指南](../../CONTRIBUTING.md)。	|
+|	activation	|	[softplus_v2_grad](../../activation/softplus_v2_grad/README.md)	|		AI Core	|	该算子暂无Ascend C代码实现，欢迎开发者补充贡献，贡献方式参考[贡献指南](../../CONTRIBUTING.md)。	|
+|	activation	|	[softshrink](../../activation/softshrink/README.md)	|		AI Core	|	该算子暂无Ascend C代码实现，欢迎开发者补充贡献，贡献方式参考[贡献指南](../../CONTRIBUTING.md)。	|
+|	activation	|	[softshrink_grad](../../activation/softshrink_grad/README.md)	|		AI Core	|	该算子暂无Ascend C代码实现，欢迎开发者补充贡献，贡献方式参考[贡献指南](../../CONTRIBUTING.md)。	|
+|	activation	|	[swish](../../activation/swish/README.md)	|		AI Core	|	该算子暂无Ascend C代码实现，欢迎开发者补充贡献，贡献方式参考[贡献指南](../../CONTRIBUTING.md)。	|
+|	activation	|	[swish_grad](../../activation/swish_grad/README.md)	|		AI Core	|	该算子暂无Ascend C代码实现，欢迎开发者补充贡献，贡献方式参考[贡献指南](../../CONTRIBUTING.md)。	|
+|	activation	|	[threshold](../../activation/threshold/README.md)	|		AI Core	|	该算子暂无Ascend C代码实现，欢迎开发者补充贡献，贡献方式参考[贡献指南](../../CONTRIBUTING.md)。	|
+|	activation	|	[threshold_grad_v2_d](../../activation/threshold_grad_v2_d/README.md)	|		AI Core	|	该算子暂无Ascend C代码实现，欢迎开发者补充贡献，贡献方式参考[贡献指南](../../CONTRIBUTING.md)。	|
+|	control	|	[identity](../../control/identity/README.md)	|		AI Core	|	该算子暂无Ascend C代码实现，欢迎开发者补充贡献，贡献方式参考[贡献指南](../../CONTRIBUTING.md)。	|
+|	control	|	[identity_n](../../control/identity_n/README.md)	|		AI Core	|	该算子暂无Ascend C代码实现，欢迎开发者补充贡献，贡献方式参考[贡献指南](../../CONTRIBUTING.md)。	|
+|	control	|	[rank](../../control/rank/README.md)	|		AI Core	|	该算子暂无Ascend C代码实现，欢迎开发者补充贡献，贡献方式参考[贡献指南](../../CONTRIBUTING.md)。	|
+|	control	|	[shape](../../control/shape/README.md)	|		AI Core	|	该算子暂无Ascend C代码实现，欢迎开发者补充贡献，贡献方式参考[贡献指南](../../CONTRIBUTING.md)。	|
+|	control	|	[shape_n](../../control/shape_n/README.md)	|		AI Core	|	该算子暂无Ascend C代码实现，欢迎开发者补充贡献，贡献方式参考[贡献指南](../../CONTRIBUTING.md)。	|
+|	index	|	[gather_elements](../../index/gather_elements/README.md)	|		AI Core	|	该算子暂无Ascend C代码实现，欢迎开发者补充贡献，贡献方式参考[贡献指南](../../CONTRIBUTING.md)。	|
+|	index	|	[gather_nd](../../index/gather_nd/README.md)	|		AI Core	|	该算子暂无Ascend C代码实现，欢迎开发者补充贡献，贡献方式参考[贡献指南](../../CONTRIBUTING.md)。	|
+|	index	|	[gather_v2](../../index/gather_v2/README.md)	|		AI Core	|	该算子暂无Ascend C代码实现，欢迎开发者补充贡献，贡献方式参考[贡献指南](../../CONTRIBUTING.md)。	|
+|	index	|	[index](../../index/index/README.md)	|		AI Core	|	该算子暂无Ascend C代码实现，欢迎开发者补充贡献，贡献方式参考[贡献指南](../../CONTRIBUTING.md)。	|
+|	index	|	[index_fill_d](../../index/index_fill_d/README.md)	|		AI Core	|	该算子暂无Ascend C代码实现，欢迎开发者补充贡献，贡献方式参考[贡献指南](../../CONTRIBUTING.md)。	|
+|	index	|	[index_put_v2](../../index/index_put_v2/README.md)	|		AI Core	|	该算子暂无Ascend C代码实现，欢迎开发者补充贡献，贡献方式参考[贡献指南](../../CONTRIBUTING.md)。	|
+|	index	|	[matrix_inverse](../../index/matrix_inverse/README.md)	|		AI Core	|	该算子暂无Ascend C代码实现，欢迎开发者补充贡献，贡献方式参考[贡献指南](../../CONTRIBUTING.md)。	|
+|	index	|	[non_zero](../../index/non_zero/README.md)	|		AI Core	|	该算子暂无Ascend C代码实现，欢迎开发者补充贡献，贡献方式参考[贡献指南](../../CONTRIBUTING.md)。	|
+|	index	|	[repeat_interleave](../../index/repeat_interleave/README.md)	|		AI Core	|	该算子暂无Ascend C代码实现，欢迎开发者补充贡献，贡献方式参考[贡献指南](../../CONTRIBUTING.md)。	|
+|	index	|	[reverse_v2](../../index/reverse_v2/README.md)	|		AI Core	|	该算子暂无Ascend C代码实现，欢迎开发者补充贡献，贡献方式参考[贡献指南](../../CONTRIBUTING.md)。	|
+|	index	|	[scatter_elements](../../index/scatter_elements/README.md)	|		AI Core	|	该算子暂无Ascend C代码实现，欢迎开发者补充贡献，贡献方式参考[贡献指南](../../CONTRIBUTING.md)。	|
+|	index	|	[scatter_nd_update](../../index/scatter_nd_update/README.md)	|		AI Core	|	该算子暂无Ascend C代码实现，欢迎开发者补充贡献，贡献方式参考[贡献指南](../../CONTRIBUTING.md)。	|
+|	index	|	[scatter_update](../../index/scatter_update/README.md)	|		AI Core	|	该算子暂无Ascend C代码实现，欢迎开发者补充贡献，贡献方式参考[贡献指南](../../CONTRIBUTING.md)。	|
+|	index	|	[unique_consecutive](../../index/unique_consecutive/README.md)	|		AI Core	|	该算子暂无Ascend C代码实现，欢迎开发者补充贡献，贡献方式参考[贡献指南](../../CONTRIBUTING.md)。	|
+|	index	|	[unique_with_counts_ext2](../../index/unique_with_counts_ext2/README.md)	|		AI Core	|	该算子暂无Ascend C代码实现，欢迎开发者补充贡献，贡献方式参考[贡献指南](../../CONTRIBUTING.md)。	|
+|	loss	|	[binary_cross_entropy](../../loss/binary_cross_entropy/README.md)	|		AI Core	|	该算子暂无Ascend C代码实现，欢迎开发者补充贡献，贡献方式参考[贡献指南](../../CONTRIBUTING.md)。	|
+|	loss	|	[binary_cross_entropy_grad](../../loss/binary_cross_entropy_grad/README.md)	|		AI Core	|	该算子暂无Ascend C代码实现，欢迎开发者补充贡献，贡献方式参考[贡献指南](../../CONTRIBUTING.md)。	|
+|	loss	|	[ctc_loss_v2](../../loss/ctc_loss_v2/README.md)	|		AI Core	|	该算子暂无Ascend C代码实现，欢迎开发者补充贡献，贡献方式参考[贡献指南](../../CONTRIBUTING.md)。	|
+|	loss	|	[ctc_loss_v2_grad](../../loss/ctc_loss_v2_grad/README.md)	|		AI Core	|	该算子暂无Ascend C代码实现，欢迎开发者补充贡献，贡献方式参考[贡献指南](../../CONTRIBUTING.md)。	|
+|	loss	|	[kl_div_loss_grad](../../loss/kl_div_loss_grad/README.md)	|		AI Core	|	该算子暂无Ascend C代码实现，欢迎开发者补充贡献，贡献方式参考[贡献指南](../../CONTRIBUTING.md)。	|
+|	loss	|	[l1_loss_grad](../../loss/l1_loss_grad/README.md)	|		AI Core	|	该算子暂无Ascend C代码实现，欢迎开发者补充贡献，贡献方式参考[贡献指南](../../CONTRIBUTING.md)。	|
+|	loss	|	[lp_loss](../../loss/lp_loss/README.md)	|		AI Core	|	该算子暂无Ascend C代码实现，欢迎开发者补充贡献，贡献方式参考[贡献指南](../../CONTRIBUTING.md)。	|
+|	loss	|	[mse_loss](../../loss/mse_loss/README.md)	|		AI Core	|	该算子暂无Ascend C代码实现，欢迎开发者补充贡献，贡献方式参考[贡献指南](../../CONTRIBUTING.md)。	|
+|	loss	|	[multilabel_margin_loss](../../loss/multilabel_margin_loss/README.md)	|		AI Core	|	该算子暂无Ascend C代码实现，欢迎开发者补充贡献，贡献方式参考[贡献指南](../../CONTRIBUTING.md)。	|
+|	loss	|	[nll_loss](../../loss/nll_loss/README.md)	|		AI Core	|	该算子暂无Ascend C代码实现，欢迎开发者补充贡献，贡献方式参考[贡献指南](../../CONTRIBUTING.md)。	|
+|	loss	|	[nll_loss_grad](../../loss/nll_loss_grad/README.md)	|		AI Core	|	该算子暂无Ascend C代码实现，欢迎开发者补充贡献，贡献方式参考[贡献指南](../../CONTRIBUTING.md)。	|
+|	loss	|	[sigmoid_cross_entropy_with_logits_grad_v2](../../loss/sigmoid_cross_entropy_with_logits_grad_v2/README.md)	|		AI Core	|	该算子暂无Ascend C代码实现，欢迎开发者补充贡献，贡献方式参考[贡献指南](../../CONTRIBUTING.md)。	|
+|	loss	|	[sigmoid_cross_entropy_with_logits_v2](../../loss/sigmoid_cross_entropy_with_logits_v2/README.md)	|		AI Core	|	该算子暂无Ascend C代码实现，欢迎开发者补充贡献，贡献方式参考[贡献指南](../../CONTRIBUTING.md)。	|
+|	loss	|	[smooth_l1_loss_grad_v2](../../loss/smooth_l1_loss_grad_v2/README.md)	|		AI Core	|	该算子暂无Ascend C代码实现，欢迎开发者补充贡献，贡献方式参考[贡献指南](../../CONTRIBUTING.md)。	|
+|	loss	|	[smooth_l1_loss_v2](../../loss/smooth_l1_loss_v2/README.md)	|		AI Core	|	该算子暂无Ascend C代码实现，欢迎开发者补充贡献，贡献方式参考[贡献指南](../../CONTRIBUTING.md)。	|
+|	loss	|	[soft_margin_loss](../../loss/soft_margin_loss/README.md)	|		AI Core	|	该算子暂无Ascend C代码实现，欢迎开发者补充贡献，贡献方式参考[贡献指南](../../CONTRIBUTING.md)。	|
+|	loss	|	[soft_margin_loss_grad](../../loss/soft_margin_loss_grad/README.md)	|		AI Core	|	该算子暂无Ascend C代码实现，欢迎开发者补充贡献，贡献方式参考[贡献指南](../../CONTRIBUTING.md)。	|
+|	matmul	|	[addmv](../../matmul/addmv/README.md)	|		AI Core	|	该算子暂无Ascend C代码实现，欢迎开发者补充贡献，贡献方式参考[贡献指南](../../CONTRIBUTING.md)。	|
+|	matmul	|	[gemm](../../matmul/gemm/README.md)	|		AI Core	|	该算子暂无Ascend C代码实现，欢迎开发者补充贡献，贡献方式参考[贡献指南](../../CONTRIBUTING.md)。	|
+|	matmul	|	[mv](../../matmul/mv/README.md)	|		AI Core	|	该算子暂无Ascend C代码实现，欢迎开发者补充贡献，贡献方式参考[贡献指南](../../CONTRIBUTING.md)。	|
+|	norm	|	[batch_norm_elemt](../../norm/batch_norm_elemt/README.md)	|		AI Core	|	该算子暂无Ascend C代码实现，欢迎开发者补充贡献，贡献方式参考[贡献指南](../../CONTRIBUTING.md)。	|
+|	norm	|	[batch_norm_grad_v3](../../norm/batch_norm_grad_v3/README.md)	|		AI Core	|	该算子暂无Ascend C代码实现，欢迎开发者补充贡献，贡献方式参考[贡献指南](../../CONTRIBUTING.md)。	|
+|	norm	|	[group_norm](../../norm/group_norm/README.md)	|		AI Core	|	该算子暂无Ascend C代码实现，欢迎开发者补充贡献，贡献方式参考[贡献指南](../../CONTRIBUTING.md)。	|
+|	norm	|	[instance_norm_v3](../../norm/instance_norm_v3/README.md)	|		AI Core	|	该算子暂无Ascend C代码实现，欢迎开发者补充贡献，贡献方式参考[贡献指南](../../CONTRIBUTING.md)。	|
+|	norm	|	[lp_norm_v2](../../norm/lp_norm_v2/README.md)	|		AI Core	|	该算子暂无Ascend C代码实现，欢迎开发者补充贡献，贡献方式参考[贡献指南](../../CONTRIBUTING.md)。	|
+|	norm	|	[renorm](../../norm/renorm/README.md)	|		AI Core	|	该算子暂无Ascend C代码实现，欢迎开发者补充贡献，贡献方式参考[贡献指南](../../CONTRIBUTING.md)。	|
+|	norm	|	[sync_batch_norm_backward_elemt](../../norm/sync_batch_norm_backward_elemt/README.md)	|		AI Core	|	该算子暂无Ascend C代码实现，欢迎开发者补充贡献，贡献方式参考[贡献指南](../../CONTRIBUTING.md)。	|
+|	norm	|	[sync_batch_norm_backward_reduce](../../norm/sync_batch_norm_backward_reduce/README.md)	|		AI Core	|	该算子暂无Ascend C代码实现，欢迎开发者补充贡献，贡献方式参考[贡献指南](../../CONTRIBUTING.md)。	|
+|	norm	|	[sync_batch_norm_gather_stats_with_counts](../../norm/sync_batch_norm_gather_stats_with_counts/README.md)	|		AI Core	|	该算子暂无Ascend C代码实现，欢迎开发者补充贡献，贡献方式参考[贡献指南](../../CONTRIBUTING.md)。	|
+|	quant	|	[ascend_anti_quant_v2](../../quant/ascend_anti_quant_v2/README.md)	|		AI Core	|	该算子暂无Ascend C代码实现，欢迎开发者补充贡献，贡献方式参考[贡献指南](../../CONTRIBUTING.md)。	|
+|	quant	|	[quantize](../../quant/quantize/README.md)	|		AI Core	|	该算子暂无Ascend C代码实现，欢迎开发者补充贡献，贡献方式参考[贡献指南](../../CONTRIBUTING.md)。	|

diff --git a/docs/context/dir_structure.md b/docs/context/dir_structure.md
@@ -1,0 +1,121 @@
+# 项目目录
+
+详细目录层级介绍如下：
+
+> 本章罗列的部分目录是可选的，请以实际交付件为准。尤其**单算子目录**，不同场景下交付件有差异，具体说明如下：
+>
+> - 若缺少op_host目录，可能是调用了其他算子op_host实现，调用逻辑参见该算子op_api或op_graph目录下源码实现；也可能是Kernel暂无Ascend C实现，如有需要，欢迎开发者参考[贡献指南](../../CONTRIBUTING.md)补充贡献该算子。
+> - 若缺少op_kernel目录，可能是调用了其他算子op_kernel实现，调用逻辑参见该算子op_api或op_graph目录下源码实现；也可能是Kernel暂无Ascend C实现，如有需要，欢迎开发者参考[贡献指南](../../CONTRIBUTING.md)补充贡献该算子。
+> - 若缺少op_api目录，说明该算子暂不支持aclnn调用。
+> - 若缺少op_graph目录，说明该算子暂不支持图模式调用。
+
+```
+├── cmake                                               # 项目工程编译目录
+├── common                                              # 项目公共头文件和公共代码
+│   ├── CMakeLists.txt
+│   ├── inc                                             # 公共头文件目录
+│   └── stub                                            
+├── ${op_class}                                         # 算子分类，如activation、conv、matmul类算子
+│   ├${op_name}                                         # 算子工程目录，${op_name}表示算子名（小写下划线形式）
+│   │   ├── CMakeLists.txt                              # 算子CMakeList入口
+│   │   ├── README.md                                   # 算子介绍文档
+│   │   ├── docs                                        # 算子文档目录
+│   │   │   └── aclnn${OpName}.md                       # 算子aclnn接口介绍文档，${OpName}表示算子名（大驼峰形式）
+│   │   ├── examples                                    # 算子调用示例目录
+│   │   │   ├── test_aclnn_${op_name}.cpp               # 算子通过aclnn调用的示例
+│   │   │   └── test_geir_${op_name}.cpp                # 算子通过geir调用的示例
+│   │   ├── op_graph                                    # 图融合相关实现
+│   │   │   ├── CMakeLists.txt                          # op_graph侧CMakeList文件
+│   │   │   ├── ${op_name}_graph_infer.cpp              # InferDataType文件，实现算子数据类型推导
+│   │   │   ├── ${op_name}_proto.h                      # 算子原型定义，用于图优化和融合阶段识别算子
+│   │   │   └── fusion_pass                             # 算子融合规则目录
+│   │   ├── op_host                                     # Host侧实现
+│   │   │   ├── CMakeLists.txt                          # Host侧CMakeList文件
+│   │   │   ├── config                                  # 可选，二进制配置文件，若未配置工程自动生成
+│   │   │   │   ├── ${soc_version}                      # 算子在NPU上配置的二进制信息，${soc_version}表示NPU型号
+│   │   │   │   │   ├── ${op_name}_binary.json          # 算子二进制配置文件
+│   │   │   │   │   └── ${op_name}_simplified_key.ini   # 算子SimplifiedKey配置信息
+│   │   │   │   └── ...
+│   │   │   ├── ${op_name}_def.cpp                      # 算子信息库，定义算子基本信息，如名称、输入输出、数据类型等
+│   │   │   ├── ${op_name}_infershape.cpp               # 可选，InferShape实现，根据算子形状推导输出shape，若未配置则输出shape与输入shape一样
+│   │   │   ├── ${op_name}_tiling_${sub_case}.cpp       # 可选，针对某些子场景下的Tiling优化，${sub_case}表示子场景，如${op_name}_tiling_arch35是针对arch35架构的优化，若无该文件表明该算子没有对应子场景的特定Tiling策略
+│   │   │   ├── ${op_name}_tiling_${sub_case}.h         # 可选，${sub_case}子场景下Tiling实现用的头文件
+│   │   │   ├── ${op_name}_tiling.cpp                   # 可选，若无该文件表明对应场景下无Tiling实现(将张量划分为多个小块，区分数据类型进行并行计算)
+│   │   │   ├── ${op_name}_tiling.h                     # 可选，Tiling实现用的头文件
+│   │   │   └── op_api                                  # 可选，算子aclnn实现文件目录，若未配置工程自动生成
+│   │   │       ├── aclnn_${op_name}.cpp                # 算子aclnn接口实现文件
+│   │   │       ├── aclnn_${op_name}.h                  # 算子aclnn接口实现头文件
+│   │   │       ├── ${op_name}.cpp                      # 算子l0接口实现文件
+│   │   │       ├── ${op_name}.h                        # 算子l0接口实现头文件
+│   │   │       └── CMakeLists.txt
+│   │   │── op_kernel                                   # Device侧Kernel实现
+│   │   │   ├── ${sub_case}                             # 可选，${sub_case}子场景使用的目录
+│   │   │   │   ├── ${op_name}_${model}.h               # 算子kernel实现文件，${model}表示用户自定义文件名后缀，通常为Tiling模板名
+│   │   │   │   └── ...
+│   │   │   ├── ${op_name}_tiling_key.h                 # 可选，TilingKey文件，定义Tiling策略的Key，标识不同划分方式，若未配置表明该算子无相应的Tiling策略
+│   │   │   ├── ${op_name}_tiling_data.h                # 可选，TilingData文件，存储Tiling策略相关配置信息，如块大小、并行度，若未配置表明该算子无相应的Tiling策略
+│   │   │   ├── ${op_name}.cpp                          # Kernel入口文件，包含主函数和调度逻辑
+│   │   │   └── ${op_name}.h                            # Kernel实现文件，定义Kernel头文件，包含函数声明、结构定义、逻辑实现
+│   │   └── tests                                       # 算子测试用例目录
+│   │       ├── CMakeLists.txt
+│   │       └── ut                                      # 可选，UT测试用例，根据实际情况开发相应的用例
+│   │           ├── CMakeLists.txt                      # UT用例CMakeList文件
+│   │           ├── graph_plugin                        # grap_plugin测试用例目录
+│   │           │   ├── CMakeLists.txt
+│   │           │   └── fusion_pass                     # 融合规则测试用例目录
+│   │           │       └── CMakeLists.txt
+│   │           ├── op_host                             # op_host测试用例目录
+│   │           │   ├── CMakeLists.txt
+│   │           │   ├── ${op_name}_regbase_tiling.h
+│   │           │   ├── op_api                          # op_api测试用例目录
+│   │           │   │   ├── CMakeLists.txt
+│   │           │   │   └── test_aclnn_${op_name}.cpp   # 算子aclnn测试用例文件
+│   │           │   ├── test_${op_name}_${sub_case}.cpp # ${sub_case}子场景下op_host测试用例文件
+│   │           │   ├── test_${op_name}.cpp             # op_host测试用例文件
+│   │           │   ├── test_${op_name}_infershape.cpp  # 算子InferShape测试用例文件
+│   │           │   └── test_${op_name}_tiling.cpp      # 算子Tiling测试用例文件
+│   │           └── op_kernel                           # op_kernel测试用例目录
+│   │               ├── CMakeLists.txt
+│   │               │── test_${op_name}.cpp             # 算子Kernel测试用例文件
+│   │               └── ${op_name}_data                 # 可选，op_kernel测试用例中依赖的数据比对和生成脚本，若未配置需在对应用例中手动实现
+│   │                   ├── compare_data.py             # 数据脚本
+│   │                   └── gen_data.py                 # 数据生成脚本
+│   └── ...
+├── docs                                                # 项目相关文档目录
+├── examples                                            # 端到端算子开发和调用示例
+│   ├── add_example                                     # AI Core算子示例目录
+│   │   ├── CMakeLists.txt                              # 算子编译配置文件 
+│   │   ├── examples                                    # 算子使用示例目录
+│   │   ├── op_graph                                    # 算子构图相关目录
+│   │   ├── op_host                                     # 算子信息库、Tiling、InferShape相关实现目录
+│   │   ├── op_kernel                                   # 算子Kernel目录
+│   │   └── tests                                       # 算子测试用例目录
+│   ├── add_example_aicpu                               # AI CPU算子示例目录
+│   │   ├── CMakeLists.txt                              # 算子编译配置文件
+│   │   ├── examples                                    # 算子使用示例目录
+│   │   ├── op_graph                                    # 算子构图相关目录
+│   │   ├── op_host                                     # 算子信息库、InferShape相关实现
+│   │   ├── op_kernel_aicpu                             # 算子Kernel目录
+│   │   └── tests                                       # 算子测试用例目录
+│   ├── CMakeLists.txt
+│   └── README.md                                       # 项目示例介绍文档
+├── scripts                                             # 脚本目录，包含自定义算子、Kernel构建相关配置文件
+├── tests                                               # 项目级测试目录
+│   ├── requirements.txt                                # 测试用例依赖的第三方组件
+│   └── ut                                              # UT用例工程
+│       ├── CMakeLists.txt                              # UT工程的CMakeList脚本
+│       ├── common                                      # UT工程中使用的公共代码
+│       ├── op_api                                      # op_api测试工程
+│       ├── op_host                                     # op_host测试工程
+│       └── op_kernel                                   # op_kernel测试工程
+├── CMakeLists.txt                                      # 项目工程CMakeList入口
+├── CONTRIBUTING.md                                     # 项目贡献指南文件
+├── LICENSE                                             # 项目开源许可证信息
+├── OAT.xml                                             # 配置脚本，代码仓工具使用，用于检查License是否规范
+├── README.md                                           # 项目工程总介绍文档
+├── SECURITY.md                                         # 项目安全声明文件
+├── build.sh                                            # 项目工程编译脚本
+├── install_deps.sh                                     # 项目安装依赖包脚本
+├── requirements.txt                                    # 项目的第三方依赖包
+└── version.info                                        # 项目版本信息
+```

diff --git a/README.md b/README.md
@@ -11,7 +11,7 @@ ops-nn是[CANN](https://hiascend.com/software/cann) （Compute Architecture for 
 <img src="docs/figures/architecture.png" alt="架构图"  width="750px" height="400px">
 
 ## 🔍目录结构
-
+关键目录如下，详细目录介绍参见[项目目录](./docs/context/dir_structure.md)。
 ```
 ├── activation                         # activation类算子
 ├── cmake                              # 项目工程编译目录
@@ -52,6 +52,7 @@ ops-nn是[CANN](https://hiascend.com/software/cann) （Compute Architecture for 
 
 若您希望快速体验算子的调用和开发过程，请访问如下文档获取简易教程。
 
+- [算子列表](docs/context/op_list.md)：介绍项目提供的全量算子信息，方便快速查询。
 - [算子调用](docs/context/quick_op_invocation.md)：介绍调用算子的基本步骤，快速搭建环境，实现算子编译执行。
 - [算子开发](docs/context/quick_op_develop.md)：介绍开发算子的基本流程，一键创建算子工程目录，实现Tiling、Kernel核心交付件。
 

diff --git a/CONTRIBUTING.md b/CONTRIBUTING.md
@@ -27,7 +27,7 @@
 
   如果您有全新的算子想基于NPU进行设计实现，欢迎您在Issue中提出新的想法和设计。
 
-  您可以按照[提交Issue/处理Issue任务](https://gitcode.com/cann/community#提交Issue处理Issue任务)指引新建 `Requirement|需求建议` 类Issue提供新增算子说明和设计方案，项目成员会与您进行沟通确认，并为您的算子提供一个合适的`contrib`目录分类，您可以将新增算子贡献到对应目录下。
+  您可以按照[提交Issue/处理Issue任务](https://gitcode.com/cann/community#提交Issue处理Issue任务)指引新建 `Requirement|需求建议` 类Issue提供新增算子说明和设计方案，项目成员会与您进行沟通确认，并在`experimental`目录下为您的算子提供一个合适的`contrib`目录分类，您可以将新增算子贡献到对应目录下。
 
   同时，您需要在提交的Issue中评论“/assign”或“/assign @yourself”，认领该Issue并在后续完成新算子上库。
 

diff --git a/docs/context/op_debug_prof.md b/docs/context/op_debug_prof.md
@@ -17,7 +17,7 @@
   tileNum_ = tilingData->tileNum;
   tileLength_ = blockLength_ / tileNum_ / BUFFER_NUM;
   // 打印当前核计算Block长度
-  AscendC::PRINTF("Tiling blockLength\n", blockLength_);
+  AscendC::PRINTF("Tiling blockLength is %llu\n", blockLength_);
   ```
 * **DumpTensor**
 